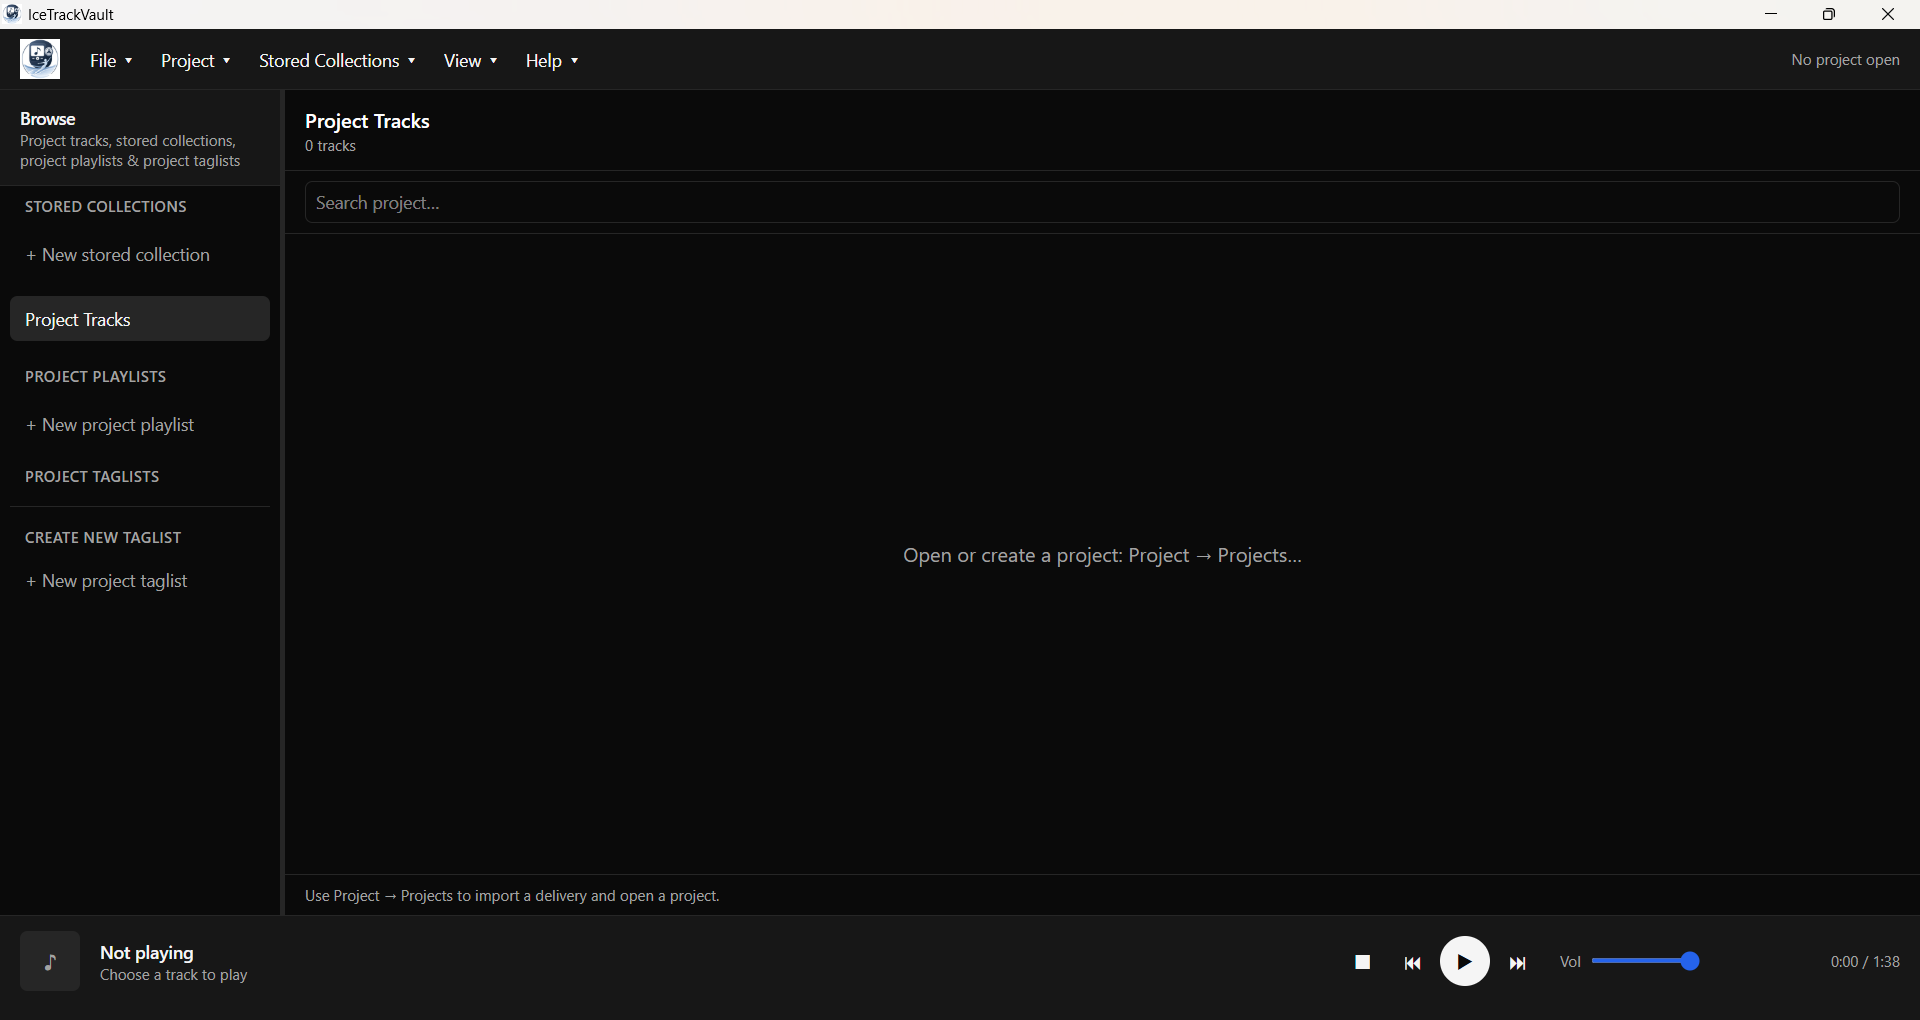
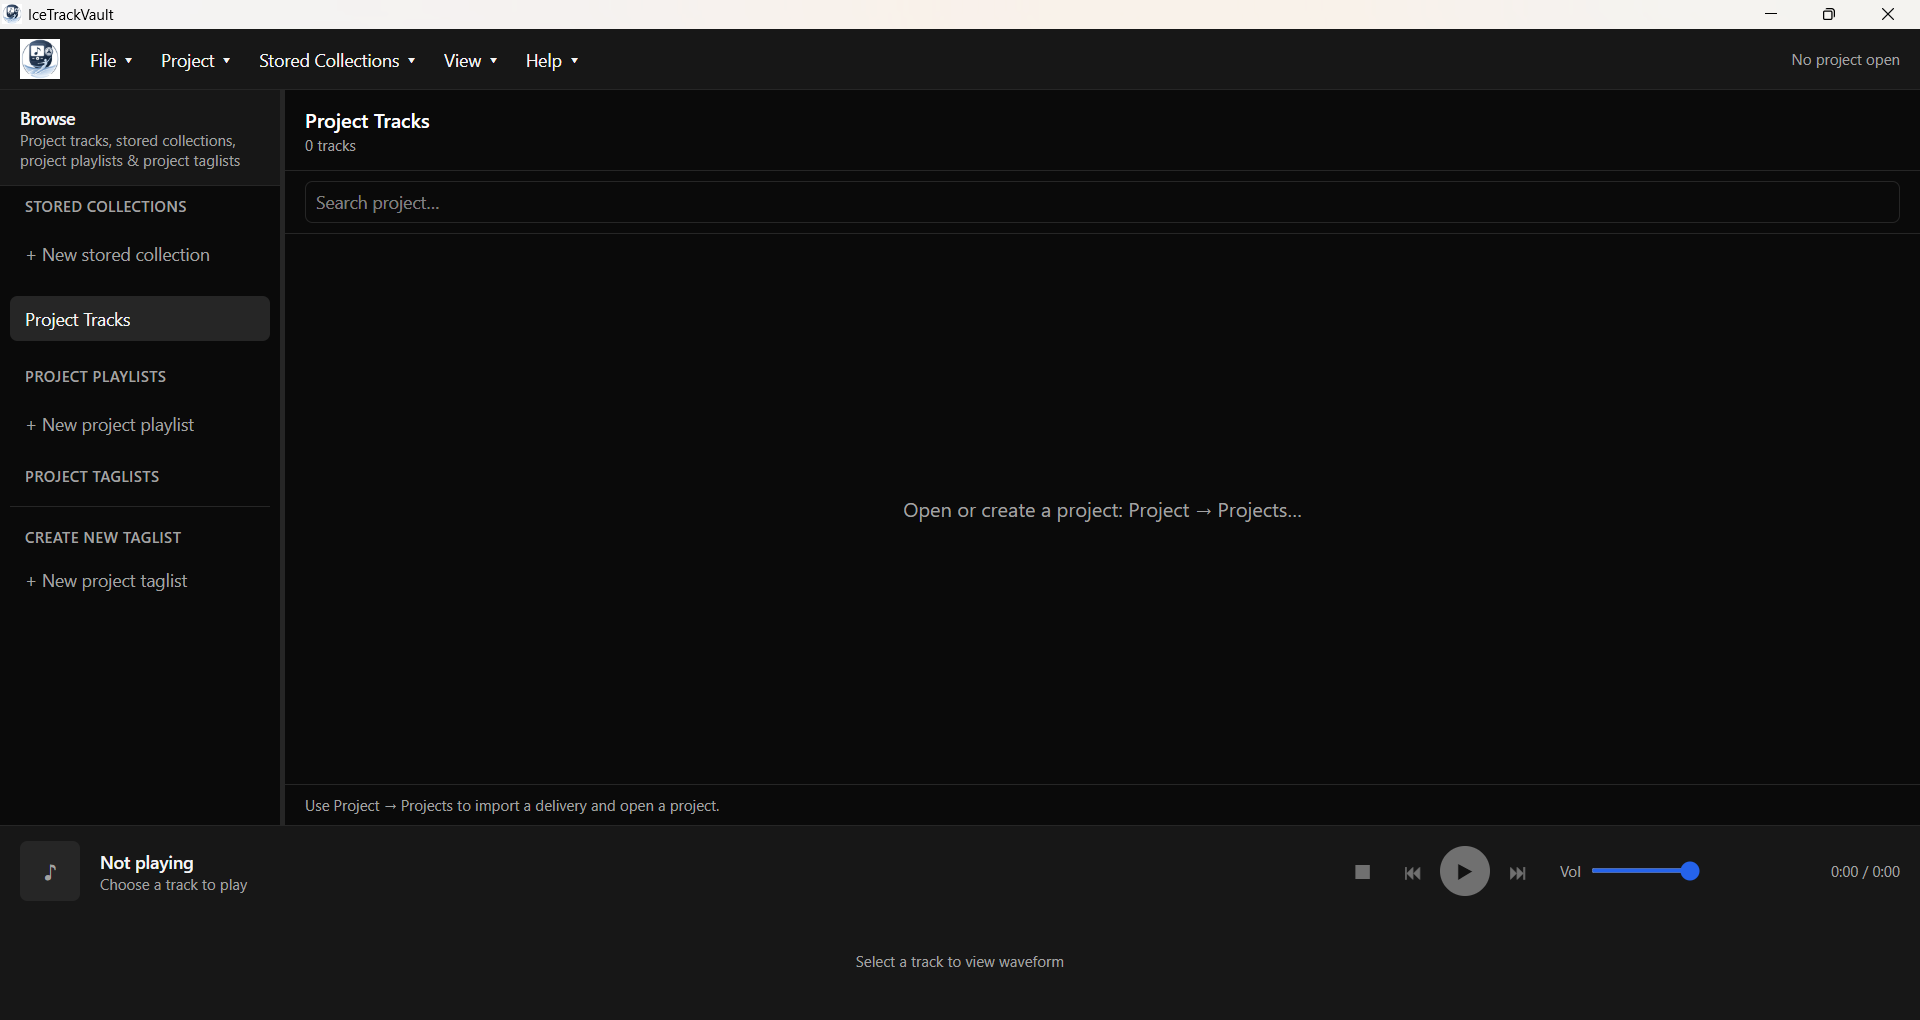
Documented initial project startup

diff --git a/docs-site/docs/.vitepress/theme/custom.css b/docs-site/docs/.vitepress/theme/custom.css
@@ -14,3 +14,30 @@
 .medium-zoom-image--opened {
   z-index: 999;
 }
+
+/* Image + caption in one bordered block (use <figure class="screenshot-box">) */
+.vp-doc figure.screenshot-box {
+  max-width: 720px;
+  margin: 1.25rem 0;
+  padding: 0.75rem 0.75rem 0.5rem;
+  border: 1px solid var(--vp-c-divider);
+  border-radius: 8px;
+  background: var(--vp-c-bg-soft);
+}
+
+.vp-doc figure.screenshot-box img {
+  display: block;
+  width: 100%;
+  height: auto;
+  margin: 0;
+  border-radius: 4px;
+}
+
+.vp-doc figure.screenshot-box figcaption {
+  margin-top: 0.5rem;
+  padding: 0 0.25rem;
+  font-size: 0.875rem;
+  line-height: 1.4;
+  color: var(--vp-c-text-2);
+  text-align: center;
+}

diff --git a/docs-site/docs/guide/getting-started.md b/docs-site/docs/guide/getting-started.md
@@ -4,24 +4,74 @@ IceTrackVault is available on **Windows** (installers on GitHub Releases). macOS
 
 ## Install
 
-1. Open [Releases](https://github.com/NathanMeyersVO/IceTrackVault/releases) and download the latest installer (`.msi` and/or `.exe`, depending on the build).
-2. Run the installer. Unsigned builds may show a SmartScreen warning until the app is code-signed.
+1. Open [Releases](https://github.com/NathanMeyersVO/IceTrackVault/releases) and download the latest installer (`.msi` and/or `.exe`).
+2. Run the installer. Because the installer is unsigned, Windows will display a security warning asking whether you want to keep or discard the file; select keep to proceed with the installation.
 
 ## First steps in the app
 
-![IceTrackVault main window after a fresh installation](/screenshots/initial-display.png)
+<figure class="screenshot-box">
+  <img
+    src="/screenshots/initial-display.png"
+    alt="IceTrackVault main window after a fresh installation"
+    data-zoomable
+  />
+  <figcaption>Main window after a fresh installation, with no music loaded. Click the image to view full size.</figcaption>
+</figure>
 
-_Click the screenshot to view it full size._
+A new competition project is created using one or more ZIP archives of tracks—tagged and packaged by EMS—along with an EMS-generated schedule report. The schedule report provides the names for each event. To start, you will select the directory where these files are located.
 
-1. Open **Project → Projects…** and create a project (name + application), or **Import EMS download…** from a folder of EMS downloads (ZIP archives and/or an event schedule spreadsheet).
-2. Open the project. IceTrackVault scans audio and loads playlists and taglists from `library/trackvault.json`.
-3. Double-click a track (or select and press play) to start playback.
 
-See [Using the app](./usage) for export, collections, and EMS apply workflows.
+1. Open **Project → Projects…** and select "New Project"
+<figure class="screenshot-box">
+  <img
+    src="/screenshots/open-project-dialog.png"
+    alt="IceTrackVault main window after a fresh installation"
+    data-zoomable
+  />
+  <figcaption>This dialog will display your current projects (there are none yet) and allow you to create a new one.</figcaption>
+</figure>
 
-## Stack (overview)
+2. In the **New Project** dialog, type in a project name, choose the **USFigureSkating EMS** application
+<figure class="screenshot-box">
+  <img
+    src="/screenshots/new-project.png"
+    alt="New Project Dialog"
+    data-zoomable
+  />
+  <figcaption>Set up the project name and application.</figcaption>
+</figure>
 
-- **Backend:** Rust (Tauri 2) — scanning, SQLite, playback, waveform peaks
-- **Frontend:** React, TypeScript, Tailwind CSS, Zustand, [wavesurfer.js](https://wavesurfer.xyz/)
+3. Either click **Import EMS Download...** or drag and drop an EMS download folder from Windows Explorer. For this example, we clicked the import button. From there, navigate to the folder containing your tagged music ZIP(s) and EMS schedule report.
 
-Developers building from source should read [Build from source](./development).
+<figure class="screenshot-box">
+  <img
+    src="/screenshots/select-download-folder.png"
+    alt="Choose New Download Folder Dialog"
+    data-zoomable
+  />
+  <figcaption>Navigate to the folder containing your downloaded music ZIP archives and your EMS schedule report.</figcaption>
+</figure>
+
+4. Click **Continue**. IceTrackVault will take a few moments to examine the content, then show you a summary of what it read.
+
+<figure class="screenshot-box">
+  <img
+    src="/screenshots/create-project-summary.png"
+    alt="Summary of project being created"
+    data-zoomable
+  />
+  <figcaption>This summarizes the data IceTrackVault just read to start the project. You can expand this view if needed to see more detail.</figcaption>
+</figure>
+
+5. Click **Apply Selected Changes**. IceTrackVault will take a few moments to process the files, and then you'll see the loaded project.
+
+<figure class="screenshot-box">
+  <img
+    src="/screenshots/project-loaded.png"
+    alt="Tracks and events have been loaded"
+    data-zoomable
+  />
+  <figcaption>IceTrackVault has loaded the project. The left-hand column lets you navigate - it's currently showing you "Project Tracks", a list of all the tracks. The big center window shows the tracks, and you can see the music player at the bottom.</figcaption>
+</figure>
+
+## Using the App

diff --git a/docs-site/docs/guide/development.md b/docs-site/docs/guide/development.md
@@ -74,5 +74,6 @@ npm run docs:dev
 
 - Put PNG (or WebP) files in `docs-site/docs/public/screenshots/`.
 - Reference them from Markdown with a root path, e.g. `![Alt text](/screenshots/my-screenshot.png)`.
+- For a bordered image + smaller caption, wrap in `<figure class="screenshot-box">` with `<img … data-zoomable />` and `<figcaption>` (styles in `docs/.vitepress/theme/custom.css`).
 - Images under `/screenshots/` render at a mid width on the page; **click to zoom** to full resolution (via `vitepress-plugin-lightbox` and `docs/.vitepress/theme/`).
 - Pushes to `main` that touch `docs-site/` deploy the site through GitHub Actions (see repo `README`).
